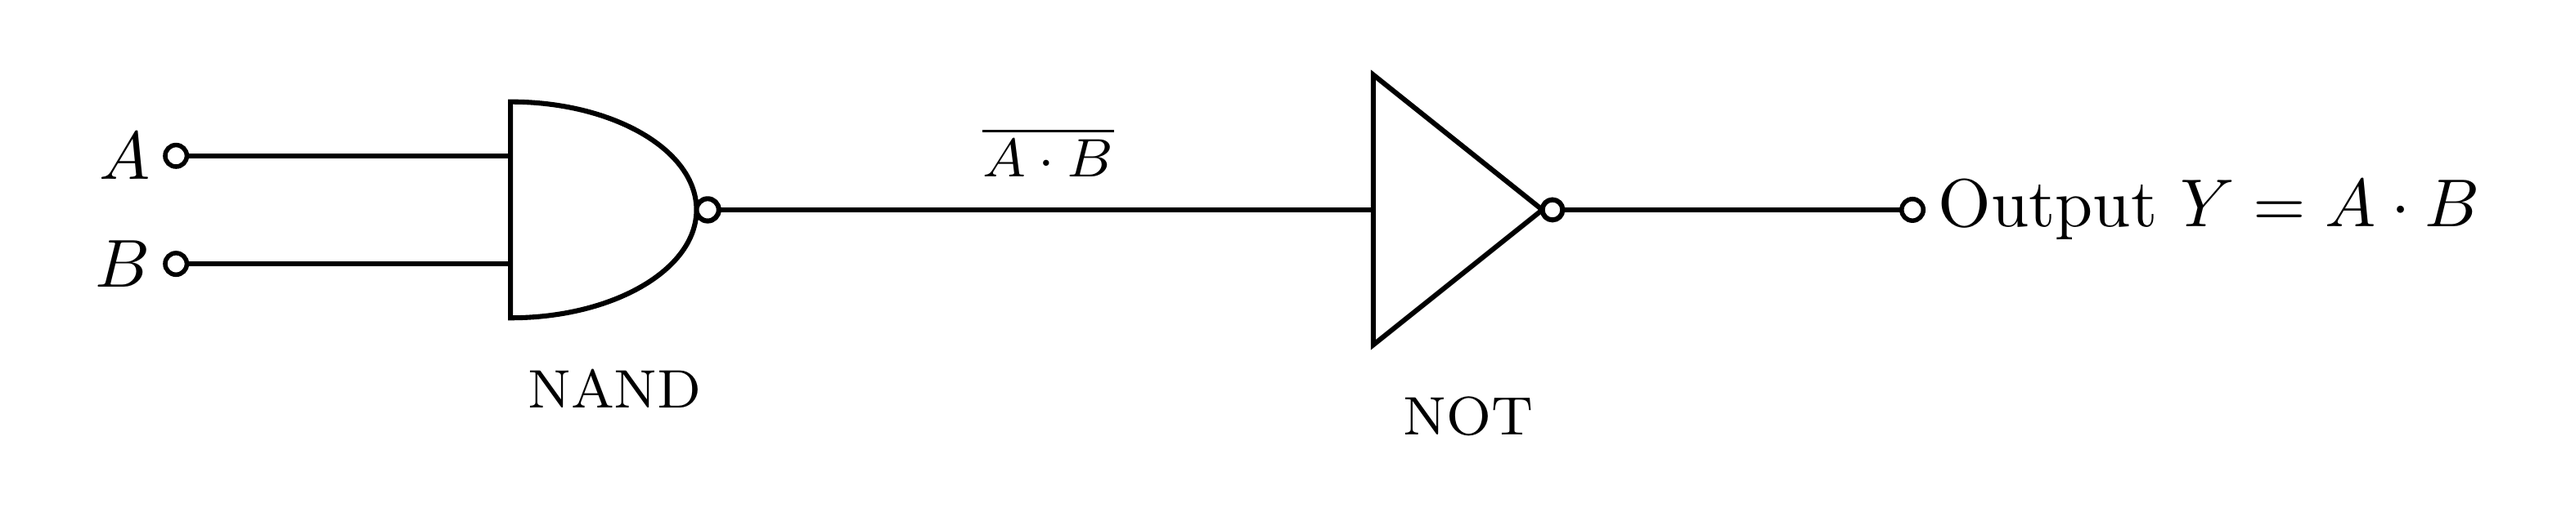
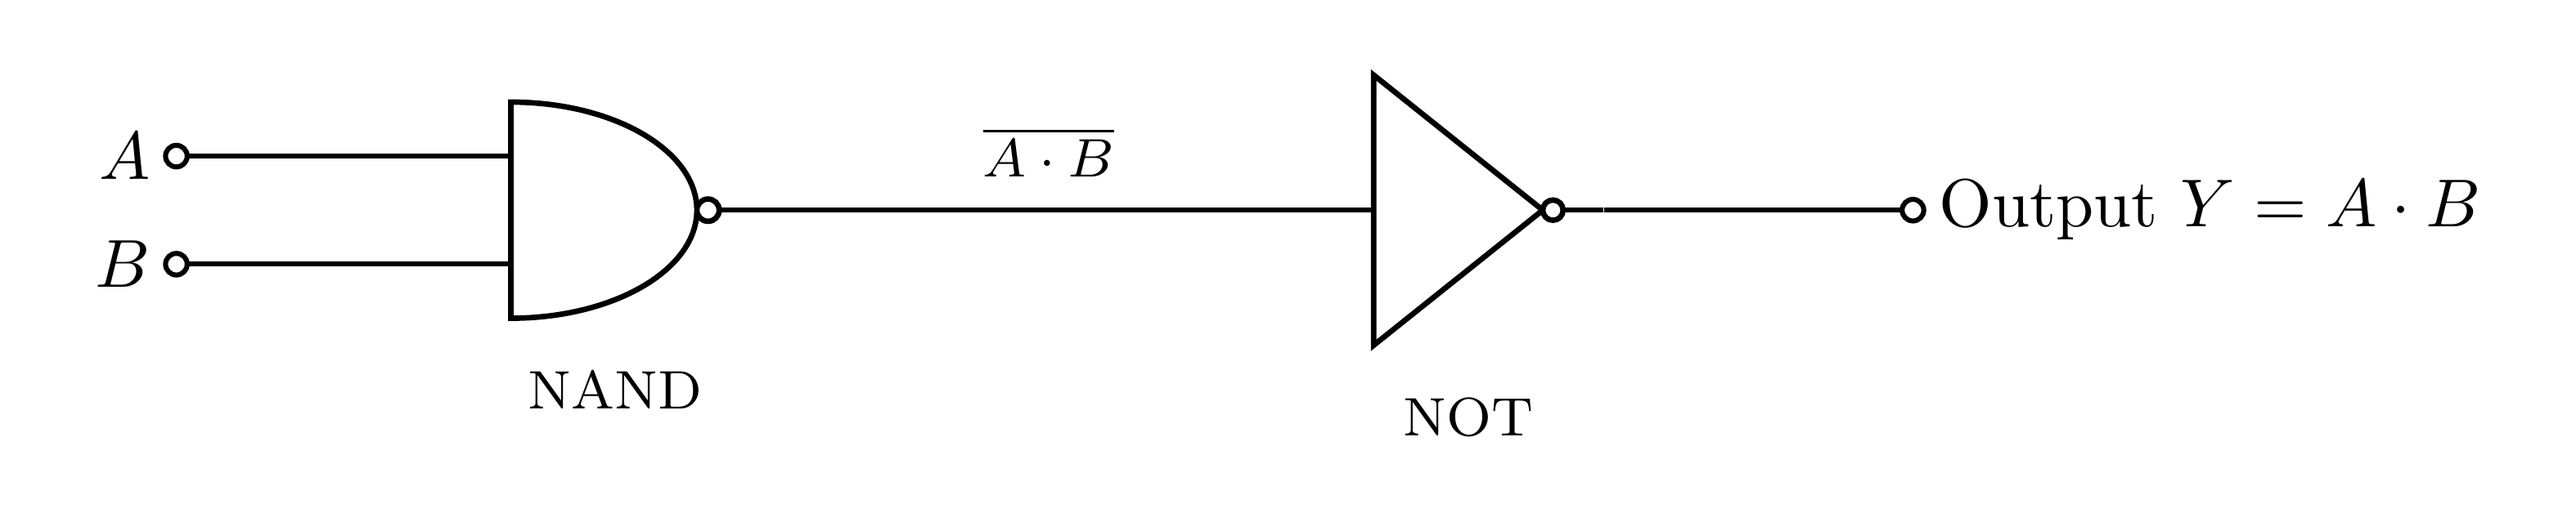
change the diagram little bit

diff --git a/circuit.tex b/circuit.tex
@@ -1,4 +1,4 @@
-% ============================================================
+% ============================================================
 %  AND gate - logic diagram.
 %  AND = a NAND gate followed by a NOT gate:
 %        Y = NOT(NOT(A.B)) = A.B
@@ -13,7 +13,7 @@
 \usetikzlibrary{calc}
 
 \begin{document}
-\begin{circuitikz}[line width=1.0pt, scale=1.5, transform shape]
+\begin{circuitikz}[line width=1.1pt, scale=1.5, transform shape]
   \ctikzset{logic ports=american, logic ports/thickness=1.1}
 
   \node[nand port] (g1) at (0,0)   {};
